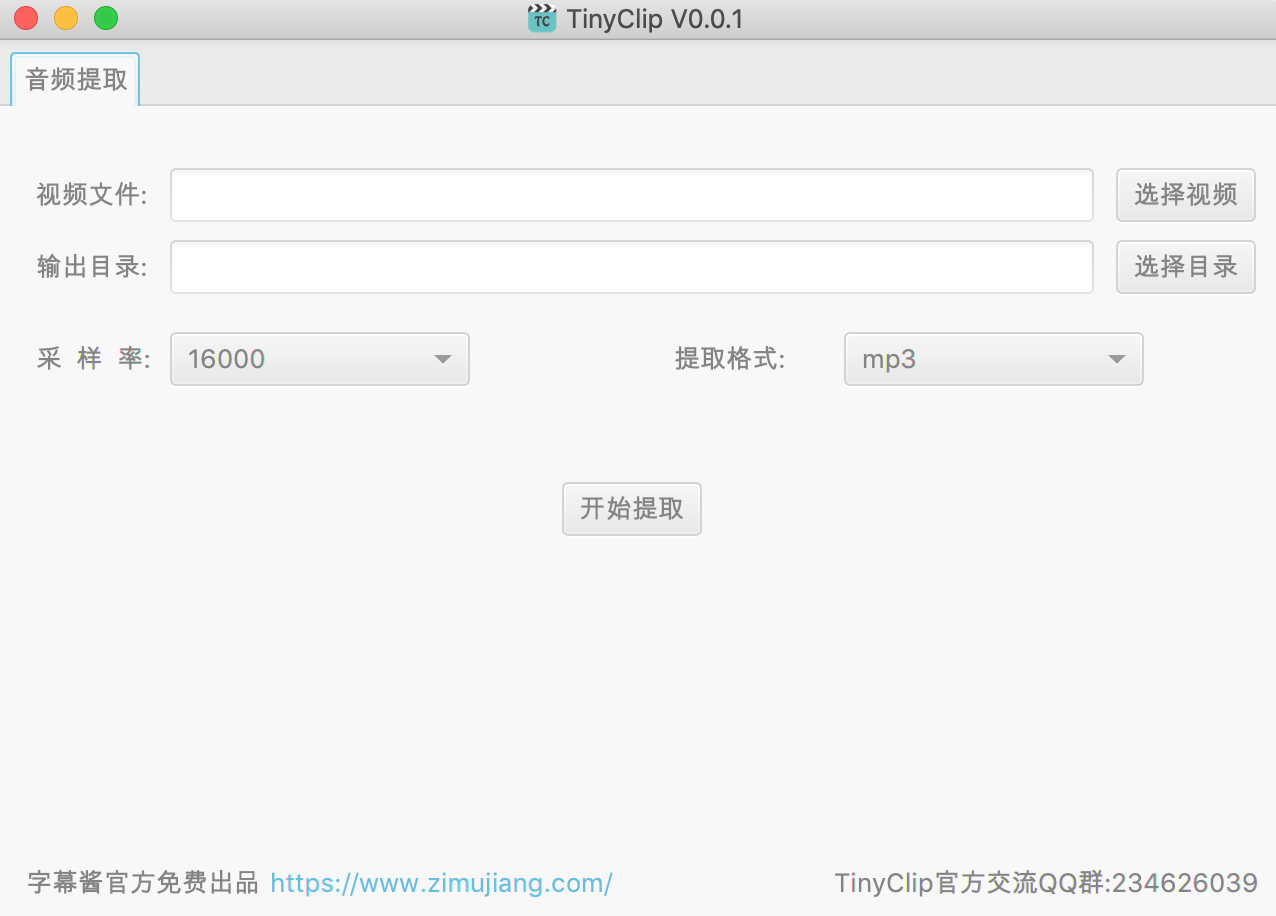
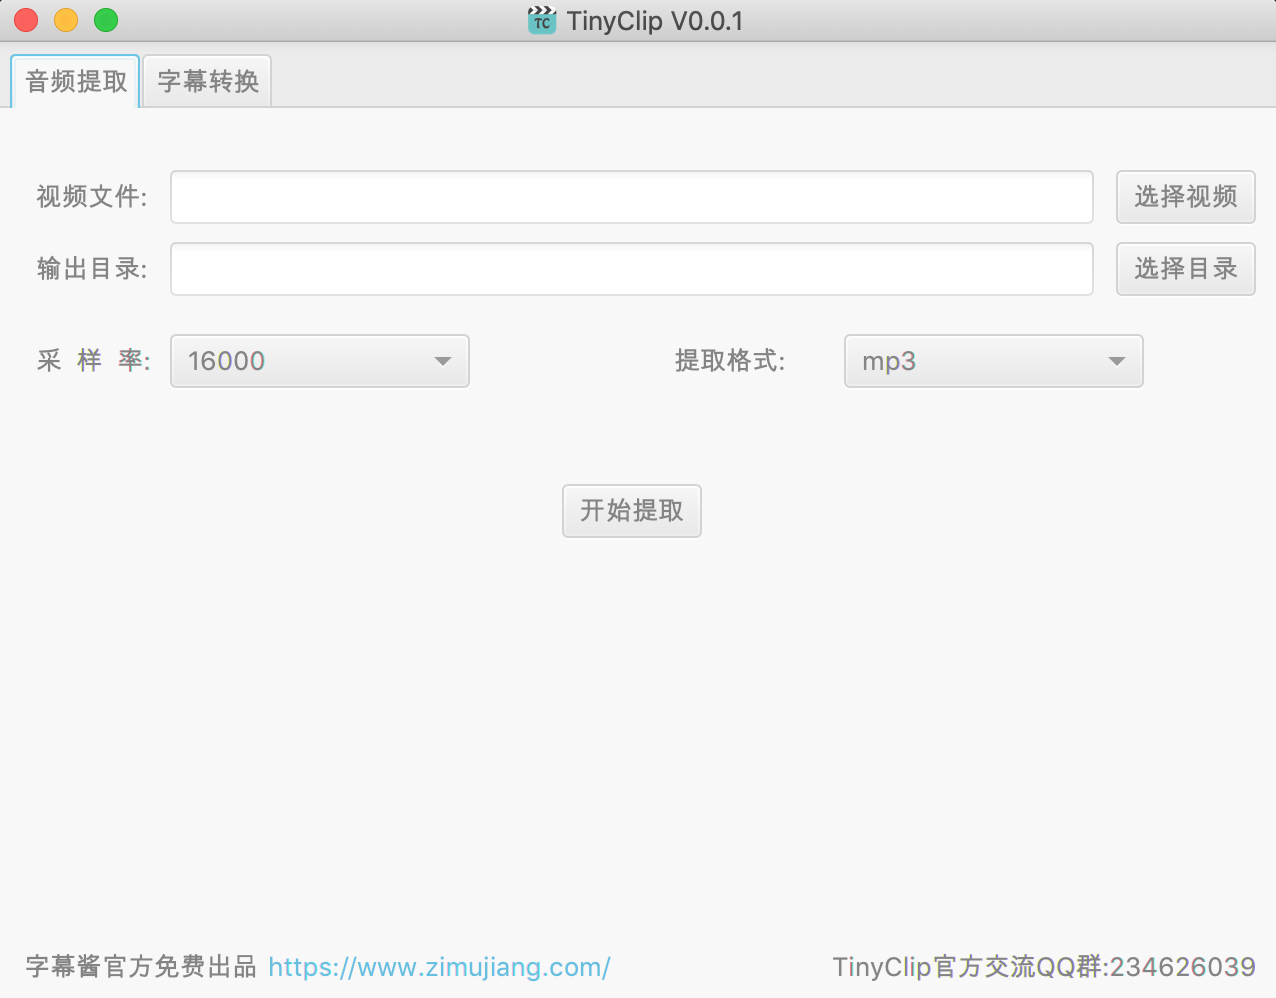
更新说明

diff --git a/README.md b/README.md
@@ -1,6 +1,6 @@
 <div align="center">
 	<a href="https://www.zimujiang.com/tinyclip">
-		<img src="http://static.pppet.net/tinyclip/icon.png" width="200" height="200">
+		<img src="doc/image/icon.png" width="200" height="200">
 	</a>
 	<h1>TinyClip</h1>
 	<p>
@@ -11,6 +11,16 @@
 
 ## TinyClip交流群
 交流QQ群：234626039
+
+## 已更新功能列表
+* 音频提取
+* 字幕格式转换（srt\ass）
+
+## TODO
+* 音视频格式转换
+* 视频水印处理
+* 视频裁剪拼接
+* ......(欢迎加群提需求)
 
 ## 项目依赖
 * dev --> JDK8+
@@ -27,5 +37,9 @@ TinyClip目前还在开发中，使用请自行评估使用风险！
 ## 系统截图
 1、音频提取
 <div align="center">
-    <img src="http://static.pppet.net/tinyclip/1.png">
+    <img src="doc/image/1.png">
+</div>
+2、字幕格式转换
+<div align="center">
+    <img src="doc/image/2.png">
 </div>
